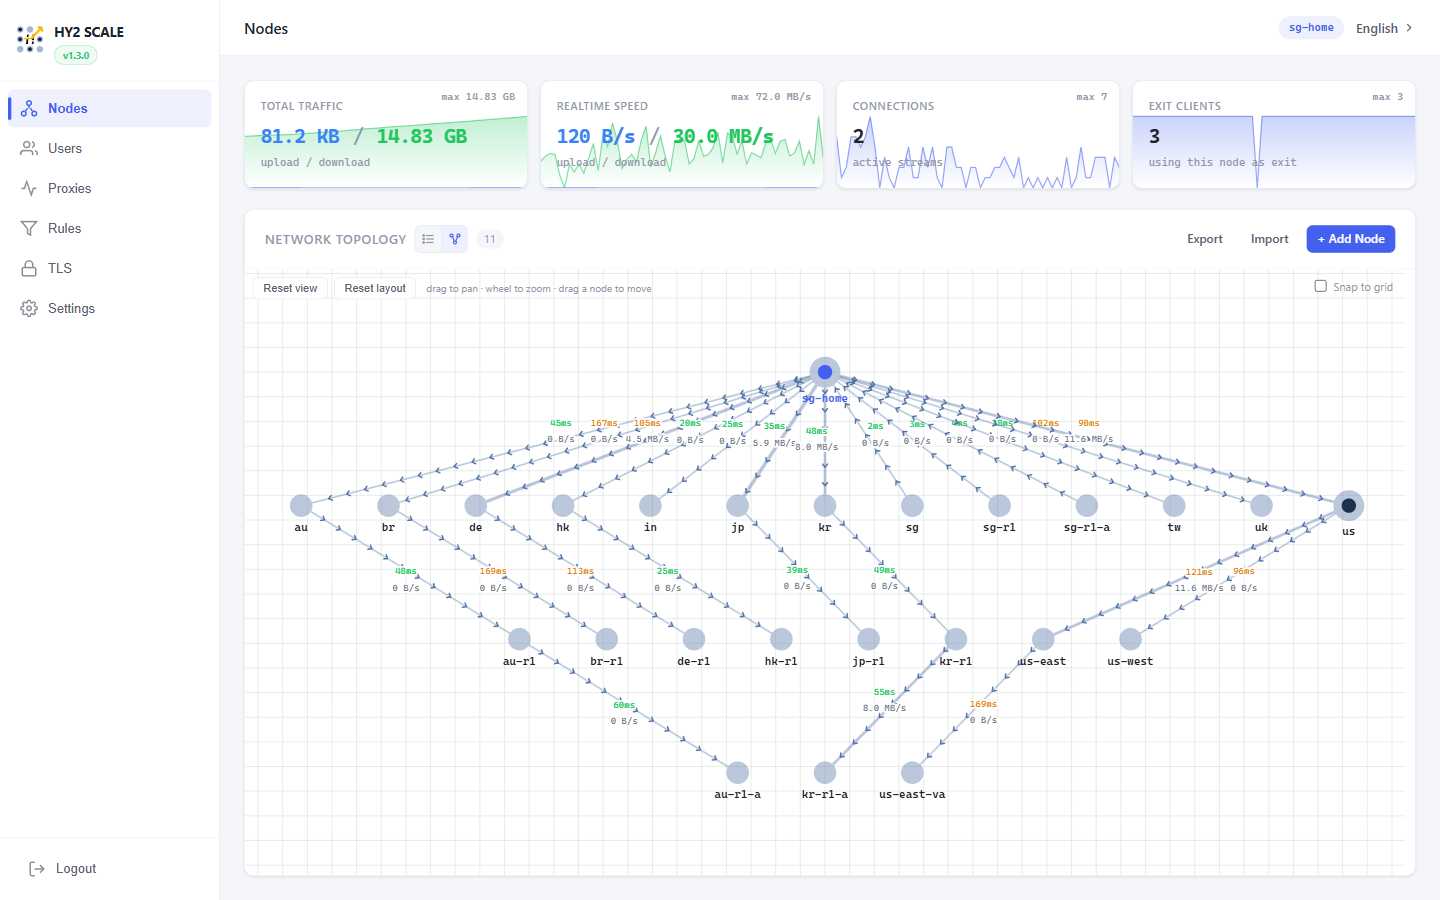
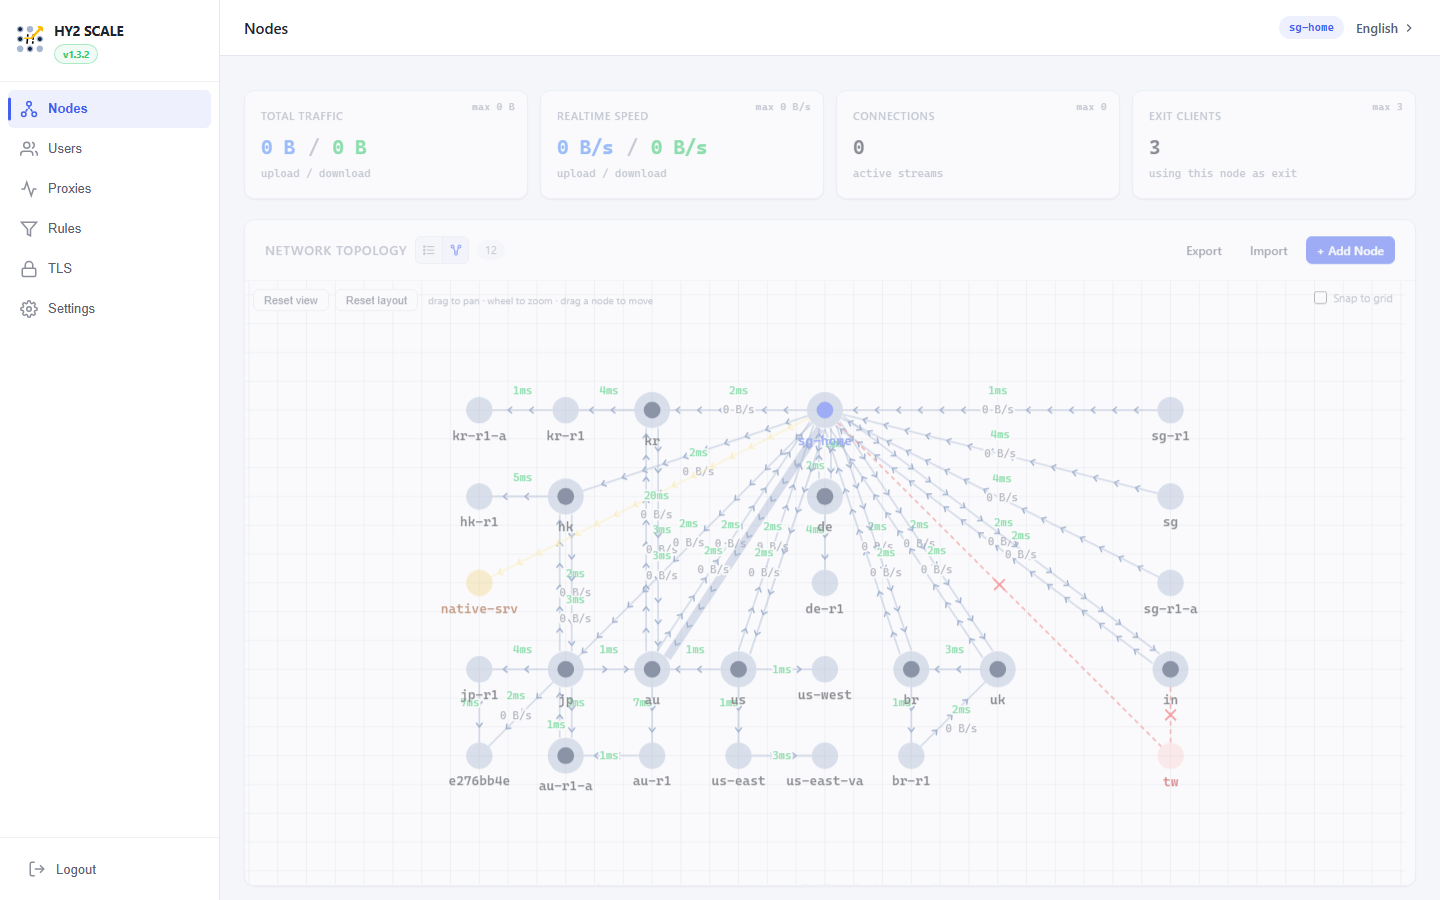
docs(README): update for v1.3.2 UI
* version pin example bumped to v1.3.2
* features bullet describes select-to-edit + click-outside-deselects
  + long-press hy2:// import
* embedded screenshots refreshed (nodes-graph, nodes-table, users,
  rules, rules-domain, tls) at 1440x900 against the live demo

diff --git a/README-ko.md b/README-ko.md
@@ -32,7 +32,7 @@ CPU 아키텍처(`amd64` / `arm64` / `armv7` / `mips64le` /
 `mipsle-softfloat`)를 자동 감지해 최신 릴리스의 해당 tar 파일을 받고,
 `/usr/local/bin/hy2scale`에 바이너리를 설치한 뒤 systemd 서비스를
 등록합니다. 다시 실행하면 그대로 업그레이드. 버전을 고정하려면
-`HY2SCALE_VERSION=v1.3.1`, 제거하려면 `… | sudo sh -s -- --uninstall`.
+`HY2SCALE_VERSION=v1.3.2`, 제거하려면 `… | sudo sh -s -- --uninstall`.
 
 ### Docker
 
@@ -71,7 +71,8 @@ iKuai v4 사용자는 [Releases](https://github.com/FrankoonG/hy2scale/releases)
 - IP 및 도메인 라우팅 규칙으로 특정 트래픽을 특정 출구로 보냅니다.
 - 내장 CA 서명을 지원하는 TLS 인증서 관리.
 - 다중 IP 피어 집계 (페일오버 또는 대역폭 결합).
-- 백업 / 복원, 컨테이너 내 바이너리 업그레이드, EN / 中文 / 한국어 UI.
+- 백업 / 복원, 컨테이너 내 바이너리 업그레이드(수동 업로드 또는 한 번 클릭으로 온라인 검사), EN / 中文 / 한국어 UI.
+- 선택 후 편집: 어떤 리스트에서든 행을 단일 선택하면 카드 우상단에 녹색 **Edit** 버튼이 편집 진입점으로 표시됩니다. 외부 빈 영역을 클릭하면 단일 선택이 해제되고, **+ Add Node**를 길게 누르면 hysteria2:// URL 가져오기가 열립니다.
 
 ## 스크린샷
 

diff --git a/README-zh.md b/README-zh.md
@@ -31,7 +31,7 @@ curl -fsSL https://raw.githubusercontent.com/FrankoonG/hy2scale/main/install.sh 
 自动识别 CPU 架构（`amd64` / `arm64` / `armv7` / `mips64le` /
 `mipsle-softfloat`），从最新 release 下载匹配的 tar 包，把二进制装到
 `/usr/local/bin/hy2scale` 并注册 systemd 服务。重复运行即原地升级。
-固定版本用 `HY2SCALE_VERSION=v1.3.1`；卸载用 `… | sudo sh -s -- --uninstall`。
+固定版本用 `HY2SCALE_VERSION=v1.3.2`；卸载用 `… | sudo sh -s -- --uninstall`。
 
 ### Docker
 
@@ -70,7 +70,8 @@ iKuai v4 用户请从 [Releases](https://github.com/FrankoonG/hy2scale/releases)
 - IP 与域名路由规则将特定流量引向特定出口。
 - TLS 证书管理，内置 CA 签发。
 - 多 IP 对等节点聚合（故障转移或带宽叠加）。
-- 备份 / 恢复、容器内二进制升级，UI 支持 EN / 中文 / 한국어。
+- 备份 / 恢复、容器内二进制升级（手动上传或一键在线检查），UI 支持 EN / 中文 / 한국어。
+- 单选即编辑：在任一列表中点选一行，卡片右上角即出现绿色 **Edit** 按钮作为编辑入口；点击列表外空白取消单选；长按 **+ Add Node** 可粘贴 hysteria2:// 链接导入。
 
 ## 截图
 

diff --git a/README.md b/README.md
@@ -32,7 +32,7 @@ Auto-detects the CPU architecture (`amd64`, `arm64`, `armv7`, `mips64le`,
 `mipsle-softfloat`), downloads the matching tarball from the latest
 release, installs the binary to `/usr/local/bin/hy2scale`, and registers
 a systemd service. Re-running upgrades in place. Pin a version with
-`HY2SCALE_VERSION=v1.3.1`; uninstall with `… | sudo sh -s -- --uninstall`.
+`HY2SCALE_VERSION=v1.3.2`; uninstall with `… | sudo sh -s -- --uninstall`.
 
 ### Docker
 
@@ -71,7 +71,8 @@ For iKuai v4, download the `.ipkg` from [Releases](https://github.com/FrankoonG/
 - IP and domain routing rules steer specific traffic through specific exits.
 - TLS certificate management with built-in CA signing.
 - Multi-IP peer aggregation (failover or bandwidth bonding).
-- Backup / restore, in-place binary upgrade, UI in EN / 中文 / 한국어.
+- Backup / restore, in-place binary upgrade (manual or one-click online check), UI in EN / 中文 / 한국어.
+- Select-to-edit UX: pick a row in any list and a top-right **Edit** button drives editing; clicking blank area outside the list clears the single selection; hysteria2:// share URLs can be imported by long-pressing **+ Add Node**.
 
 ## Screenshots
 
